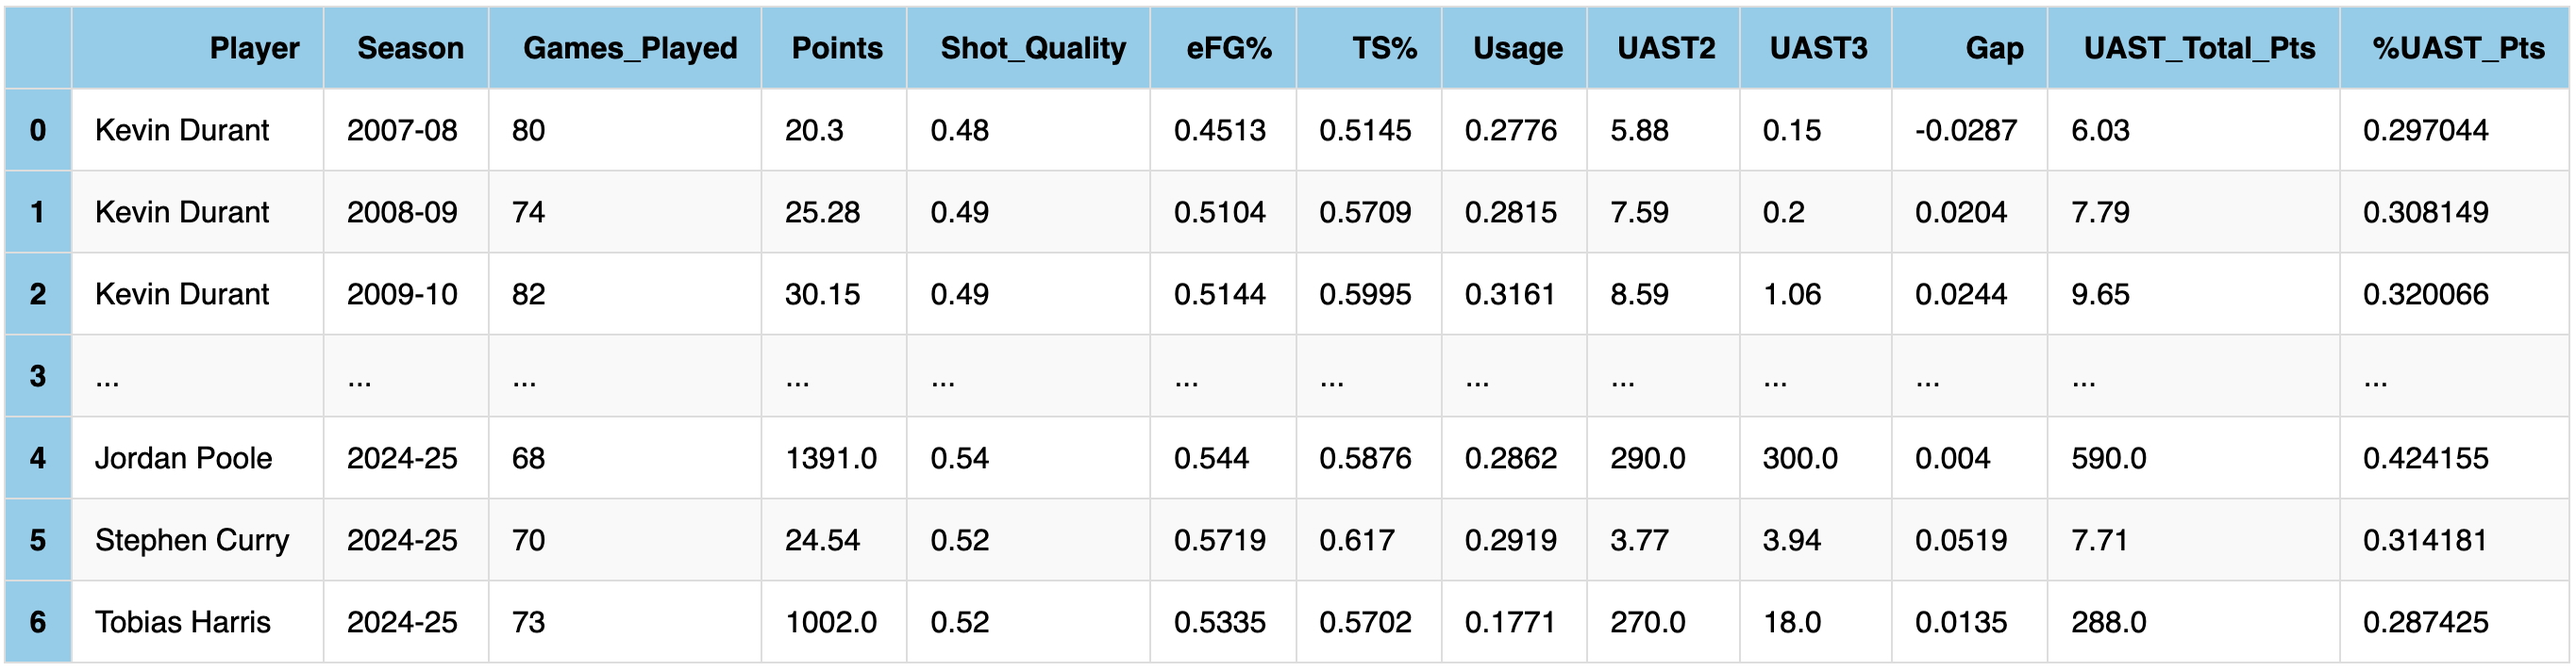
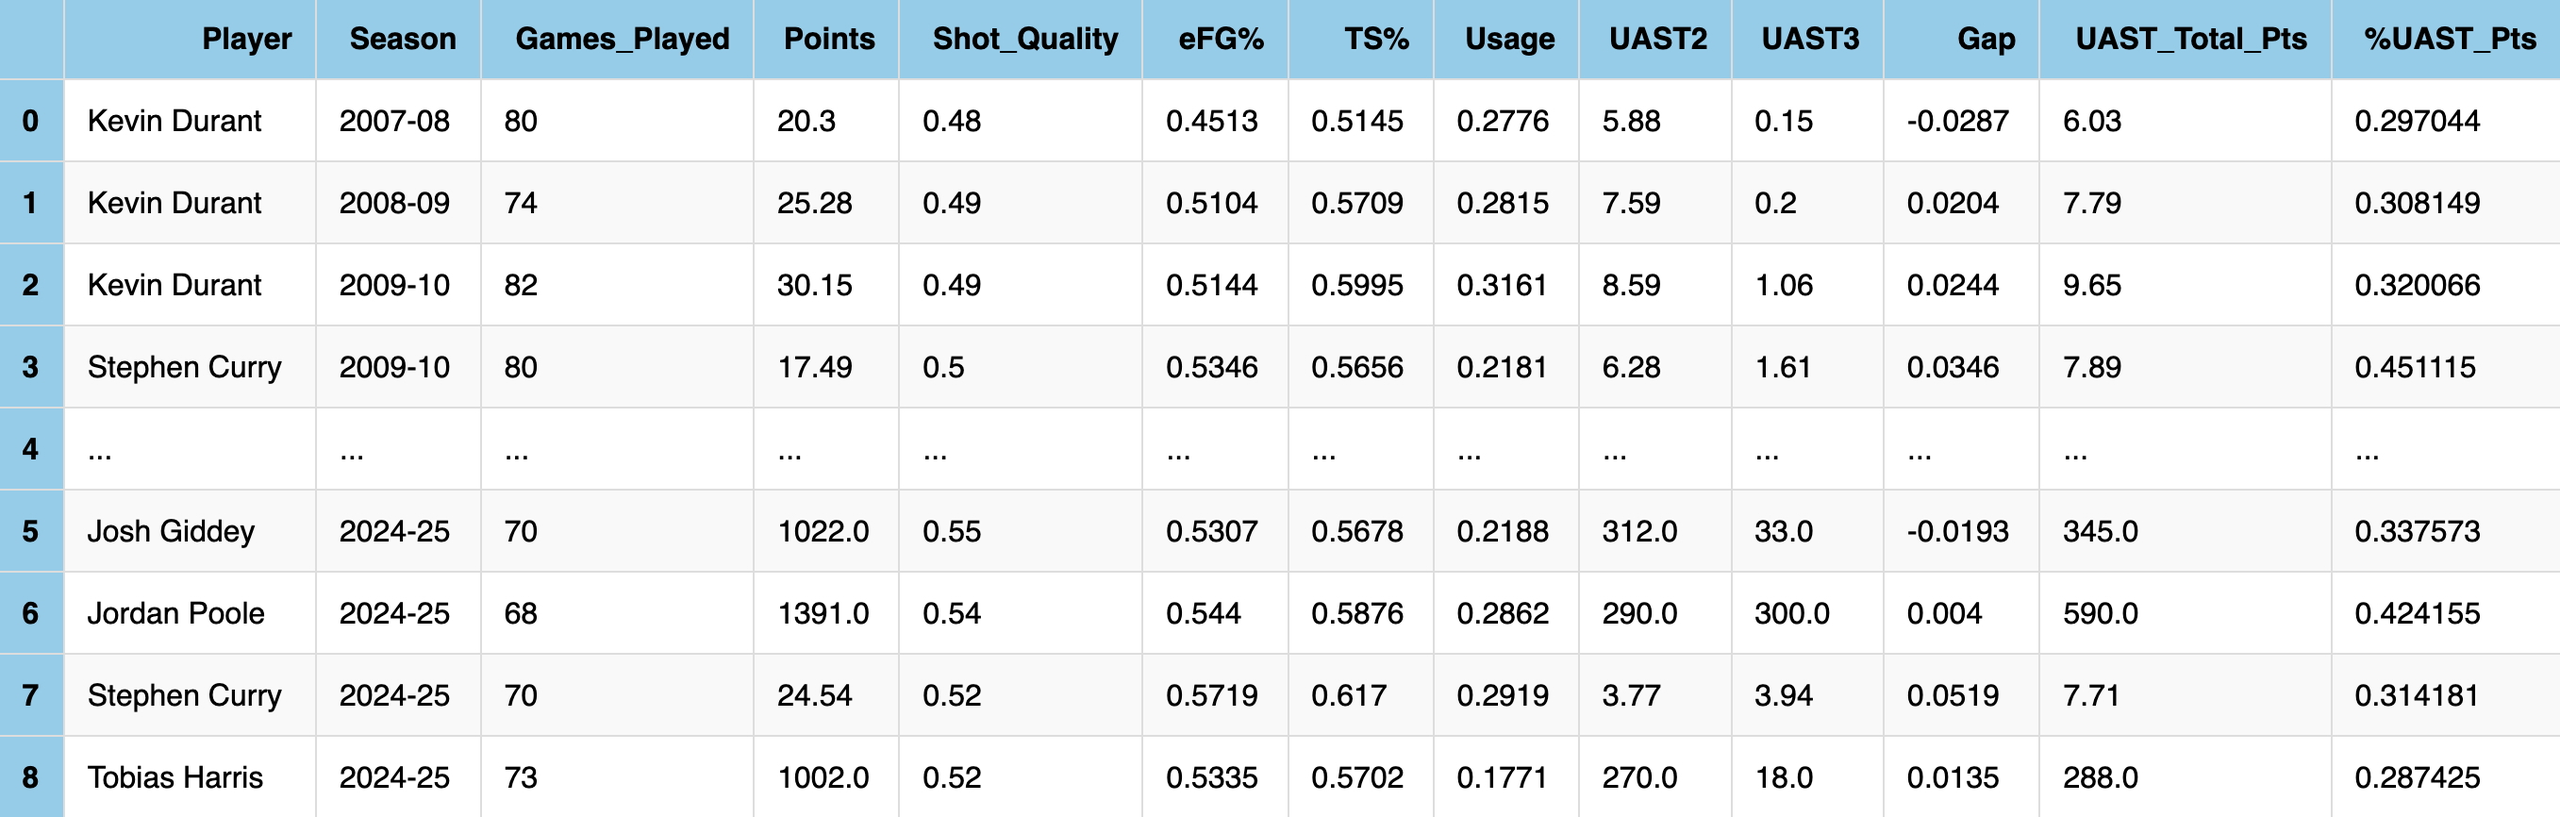
df

diff --git a/img/cleaned_preview.html b/img/cleaned_preview.html
@@ -103,6 +103,22 @@
     </tr>
     <tr>
       <th>3</th>
+      <td>Stephen Curry</td>
+      <td>2009-10</td>
+      <td>80</td>
+      <td>17.49</td>
+      <td>0.5</td>
+      <td>0.5346</td>
+      <td>0.5656</td>
+      <td>0.2181</td>
+      <td>6.28</td>
+      <td>1.61</td>
+      <td>0.0346</td>
+      <td>7.89</td>
+      <td>0.451115</td>
+    </tr>
+    <tr>
+      <th>4</th>
       <td>...</td>
       <td>...</td>
       <td>...</td>
@@ -118,7 +134,23 @@
       <td>...</td>
     </tr>
     <tr>
-      <th>4</th>
+      <th>5</th>
+      <td>Josh Giddey</td>
+      <td>2024-25</td>
+      <td>70</td>
+      <td>1022.0</td>
+      <td>0.55</td>
+      <td>0.5307</td>
+      <td>0.5678</td>
+      <td>0.2188</td>
+      <td>312.0</td>
+      <td>33.0</td>
+      <td>-0.0193</td>
+      <td>345.0</td>
+      <td>0.337573</td>
+    </tr>
+    <tr>
+      <th>6</th>
       <td>Jordan Poole</td>
       <td>2024-25</td>
       <td>68</td>
@@ -134,7 +166,7 @@
       <td>0.424155</td>
     </tr>
     <tr>
-      <th>5</th>
+      <th>7</th>
       <td>Stephen Curry</td>
       <td>2024-25</td>
       <td>70</td>
@@ -150,7 +182,7 @@
       <td>0.314181</td>
     </tr>
     <tr>
-      <th>6</th>
+      <th>8</th>
       <td>Tobias Harris</td>
       <td>2024-25</td>
       <td>73</td>

diff --git a/index.md b/index.md
@@ -18,7 +18,11 @@ There are many nba shooters in the league...
 
 
 <div style="text-align:center; margin: 2rem 0;">
-  <img src="{{ site.baseurl }}/img/cleaned_preview.jpg" alt="Cleaned Data Preview" style="max-width: 100%; height: auto; border: 1px solid #ccc; border-radius: 8px;">
+  <img 
+    src="{{ site.baseurl }}/img/cleaned_preview.jpg" 
+    alt="Cleaned Data Preview" 
+    style="max-width: 90vw; height: auto; border: 1px solid #ccc; border-radius: 8px;"
+  >
 </div>
 
 
